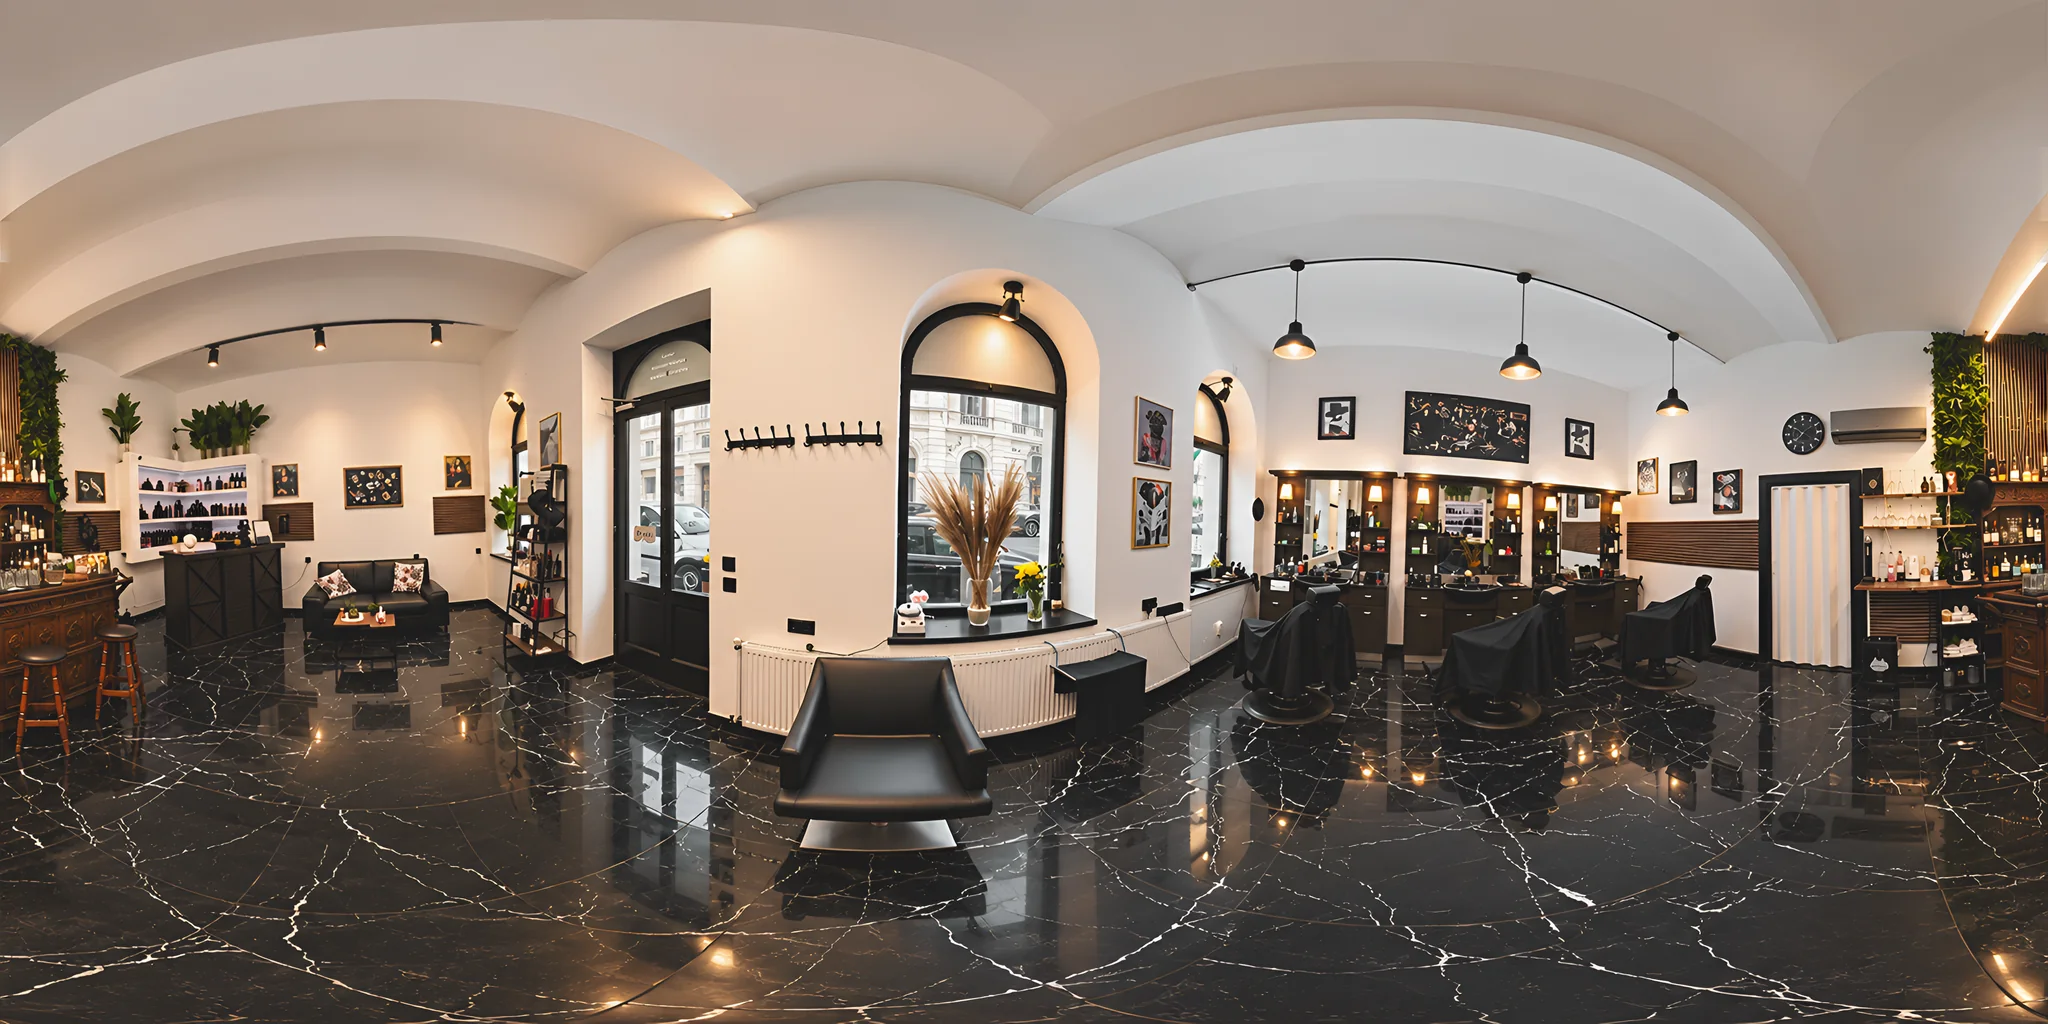
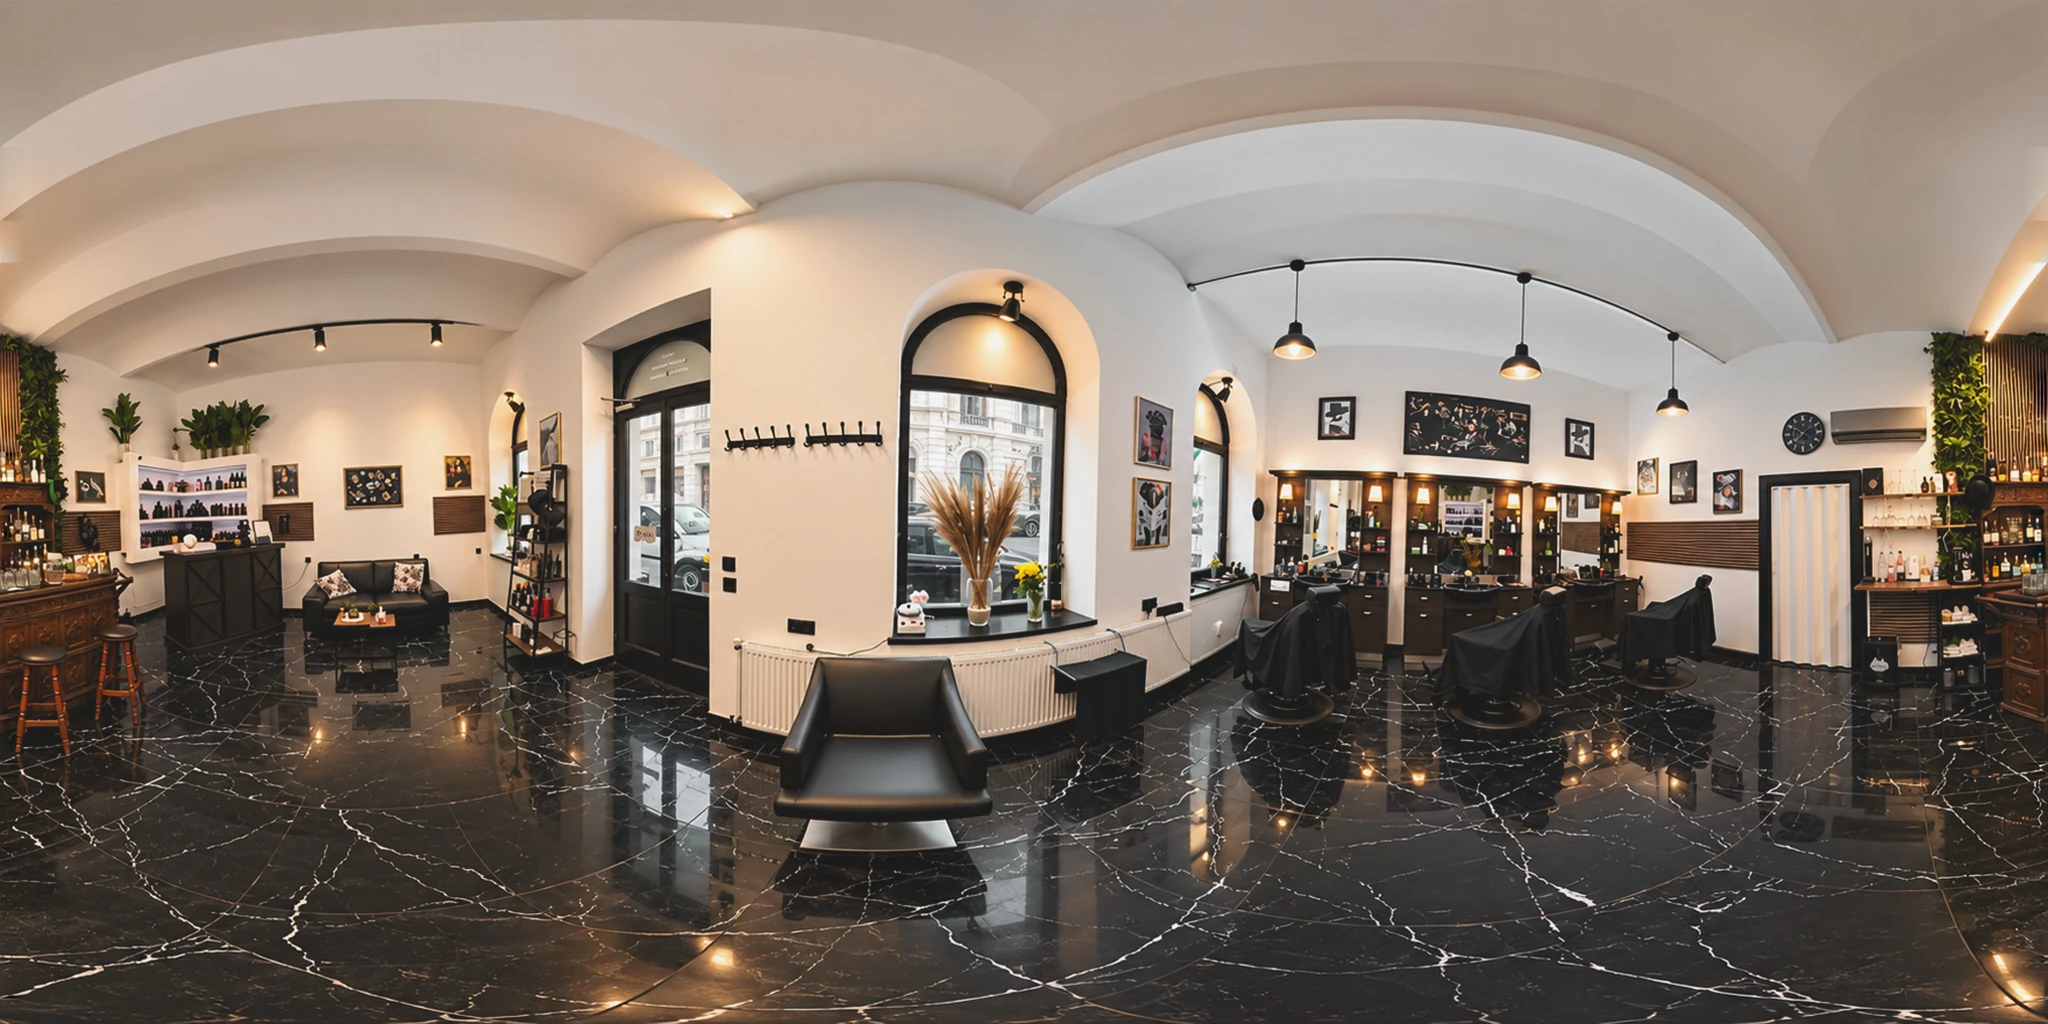
Shop photo stays a real photo: no AI sharpening
The Real-ESRGAN version looked painted. The shop photo is now only enlarged
to twice its size with Lanczos and sharpened very gently, so it keeps the
look of a real photo (tools/panorama.py, no model needed any more). Phones
get the original size. Version 0.3.7.

Claude-Session: https://claude.ai/code/session_014RsE5kPJajU8rKPppCmMFa

diff --git a/theme/jos-barbershop/assets/js/scene.js b/theme/jos-barbershop/assets/js/scene.js
@@ -57,8 +57,9 @@ const FRAME = {
 const EYE_HEIGHT = (FRAME.bottom + FRAME.top) / 2;
 const INSIDE = FACADE_ARCH.reveal + 1.4;          // how far behind the wall face the camera stops
 const PANORAMA_RADIUS = 8;
-// 360 photo of the shop (lokal-360.webp, 2:1, sharpened to twice the size of the original). Coming in through the door the camera looks straight into the
-// shop, at this part of the photo width (0 = left edge): the chairs and mirrors, with the entrance behind.
+// 360 photo of the shop (lokal-360.webp, 2:1, the real photo enlarged to twice its size). Coming in through
+// the door the camera looks straight into the shop, at this part of the photo width (0 = left edge):
+// the chairs and mirrors, with the entrance behind.
 const PANORAMA_VIEW = 0.82;
 const PANORAMA_BRIGHTNESS = 0.8;   // below 1: the shop never blooms and stays calm behind the text
 const PANORAMA_FOV = 70;         // wider view inside the shop: the photo is stretched less

diff --git a/theme/jos-barbershop/assets/scss/style.scss b/theme/jos-barbershop/assets/scss/style.scss
@@ -3,7 +3,7 @@ Theme Name: Jo's Barbershop
 Author: iks.haus
 Author URI: https://iks.haus
 Description: Custom theme for Jo's Barbershop, Wien 1060. The turning shop sign on the facade in three.js, the pages behind the arches.
-Version: 0.3.6
+Version: 0.3.7
 Requires at least: 6.5
 Requires PHP: 8.0
 License: Proprietary

diff --git a/theme/jos-barbershop/style.css b/theme/jos-barbershop/style.css
@@ -3,7 +3,7 @@ Theme Name: Jo's Barbershop
 Author: iks.haus
 Author URI: https://iks.haus
 Description: Custom theme for Jo's Barbershop, Wien 1060. The turning shop sign on the facade in three.js, the pages behind the arches.
-Version: 0.3.6
+Version: 0.3.7
 Requires at least: 6.5
 Requires PHP: 8.0
 License: Proprietary

diff --git a/tools/panorama.py b/tools/panorama.py
@@ -1,11 +1,11 @@
 """
-360 photo of the shop for the theme: sharpened to twice its size with Real-ESRGAN, the place where the
-left and right edge of the photo meet is smoothed, then written as WebP for computers (4096 px wide)
-and for phones (2048 px wide).
+360 photo of the shop for the theme. The photo stays a real photo: it is only enlarged to twice its size
+with Lanczos and sharpened very gently (no AI, which made it look painted), the place where the left and
+right edge of the photo meet is smoothed, then it is written as WebP for computers (4096 px wide) and
+for phones (2048 px wide).
 
-    pip install spandrel pillow numpy
-    curl -L -o RealESRGAN_x2plus.pth https://github.com/xinntao/Real-ESRGAN/releases/download/v0.2.1/RealESRGAN_x2plus.pth
-    python3 tools/panorama.py images/google-maps-28.webp RealESRGAN_x2plus.pth
+    pip install pillow numpy
+    python3 tools/panorama.py images/google-maps-28.webp
 
 Output: theme/jos-barbershop/assets/images/lokal-360.webp and lokal-360-mobile.webp
 """
@@ -13,58 +13,28 @@ import sys
 from pathlib import Path
 
 import numpy as np
-import spandrel
-import torch
-from PIL import Image
+from PIL import Image, ImageFilter
 
 ROOT = Path(__file__).resolve().parent.parent
 OUT = ROOT / 'theme/jos-barbershop/assets/images'
-PAD = 32          # px taken from the other side of the photo, so the tiles see the photo going round
-TILE = 256
-OVERLAP = 24
-SEAM = 24         # px on each side over which the step where the edges meet is smoothed
+SEAM = 24                                        # px on each side over which the step at the edges is smoothed
+SHARPEN = ImageFilter.UnsharpMask(radius=1.4, percent=35, threshold=2)
 
 
-def upscale(src, model):
-    scale = model.scale
-    height, width, _ = src.shape
-    img = np.concatenate([src[:, -PAD:], src, src[:, :PAD]], axis=1)
-    img = np.pad(img, ((PAD, PAD), (0, 0), (0, 0)), mode='reflect')
-    h, w, _ = img.shape
-    out = np.zeros((h * scale, w * scale, 3), np.float32)
-    weight = np.zeros((h * scale, w * scale, 1), np.float32)
-    feather = OVERLAP * scale
-    for y in range(0, h - OVERLAP, TILE - 2 * OVERLAP):
-        for x in range(0, w - OVERLAP, TILE - 2 * OVERLAP):
-            y1, x1 = min(y + TILE, h), min(x + TILE, w)
-            tile = torch.from_numpy(img[y:y1, x:x1].transpose(2, 0, 1).copy()).unsqueeze(0)
-            with torch.no_grad():
-                result = model(tile).squeeze(0).clamp(0, 1).numpy().transpose(1, 2, 0)
-            th, tw = result.shape[:2]
-            wy = np.minimum(np.arange(th) + 1, np.arange(th)[::-1] + 1).clip(max=feather) / feather
-            wx = np.minimum(np.arange(tw) + 1, np.arange(tw)[::-1] + 1).clip(max=feather) / feather
-            tile_weight = (wy[:, None] * wx[None, :])[..., None].astype(np.float32)
-            out[y * scale:y1 * scale, x * scale:x1 * scale] += result * tile_weight
-            weight[y * scale:y1 * scale, x * scale:x1 * scale] += tile_weight
-    out /= np.maximum(weight, 1e-6)
-    return out[PAD * scale:(PAD + height) * scale, PAD * scale:(PAD + width) * scale]
-
-
-def smooth_seam(img):
+def smooth_seam(image):
+    img = np.asarray(image).astype(np.float32)
     step = (img[:, 0] - img[:, -1]) / 2
     for i in range(SEAM):
         share = 1 - i / SEAM
         img[:, i] -= step * share
         img[:, -1 - i] += step * share
-    return img
+    return Image.fromarray(np.clip(img, 0, 255).astype(np.uint8))
 
 
 if __name__ == '__main__':
-    torch.set_num_threads(4)
-    model = spandrel.ModelLoader().load_from_file(sys.argv[2]).eval()
-    photo = np.asarray(Image.open(sys.argv[1]).convert('RGB')).astype(np.float32) / 255
-    big = smooth_seam(upscale(photo, model) * 255)
-    image = Image.fromarray(np.clip(big, 0, 255).astype(np.uint8))
-    image.save(OUT / 'lokal-360.webp', 'WEBP', quality=82, method=6)
-    image.resize((image.width // 2, image.height // 2), Image.LANCZOS).save(OUT / 'lokal-360-mobile.webp', 'WEBP', quality=84, method=6)
-    print(image.size, 'written to', OUT)
+    photo = Image.open(sys.argv[1]).convert('RGB')
+    width, height = photo.size
+    big = photo.resize((width * 2, height * 2), Image.LANCZOS).filter(SHARPEN)
+    smooth_seam(big).save(OUT / 'lokal-360.webp', 'WEBP', quality=86, method=6)
+    smooth_seam(photo).save(OUT / 'lokal-360-mobile.webp', 'WEBP', quality=90, method=6)
+    print(big.size, 'and', photo.size, 'written to', OUT)

diff --git a/theme/jos-barbershop/functions.php b/theme/jos-barbershop/functions.php
@@ -9,7 +9,7 @@ if ( ! defined( 'ABSPATH' ) ) {
 	exit;
 }
 
-define( 'JOS_VERSION', '0.3.6' );
+define( 'JOS_VERSION', '0.3.7' );
 
 /**
  * Theme supports.

diff --git a/README.md b/README.md
@@ -74,8 +74,8 @@ Stranica počinje 3D scenom s okruglim znakom trgovine, kao na fasadi (`images/f
   sljedećeg luka i uđe u njega.
 - Redom: Leistungen & Preise (izlog desno), Über uns (vrata), Galerie, Kontakt (izlog lijevo).
 - Kroz vrata kamera ulazi u lokal: 360 fotografija lokala oko kamere (`images/google-maps-28.webp`, 2048 x 1024).
-  Za web je izoštrena na dvostruku veličinu (Real-ESRGAN, `tools/panorama.py`): `lokal-360.webp` (4096 px) za
-  računala, `lokal-360-mobile.webp` (2048 px) za mobitele. Pogled prvo ide ravno u lokal, prema stolicama
+  Ostaje prava fotografija: za web je samo povećana na dvostruku veličinu i vrlo blago izoštrena, bez AI-ja
+  (`tools/panorama.py`): `lokal-360.webp` (4096 px) za računala, `lokal-360-mobile.webp` (2048 px) za mobitele. Pogled prvo ide ravno u lokal, prema stolicama
   i ogledalima, s ulazom iza leđa, i sa scrollom se okrene jednom u krug. Stranica Über uns dolazi preko lokala
   na tamnom staklu. Unutra se kut gledanja proširi s 30 na 70 stupnjeva.
 - Bez animacija (prefers-reduced-motion) kamera stoji na prvom kadru, a stranice slijede jedna za drugom.
@@ -101,6 +101,6 @@ Vlastita WordPress tema (PHP, SCSS, čisti JavaScript, GSAP, three.js), sve loka
 
 Dijale (zadane vrijednosti dok ih ne promijenimo): VARIJACIJA 6, ANIMACIJA 9 (3D hero povezan sa scrollom), GUSTOĆA 4.
 
-Status 0.3.6: znak na fasadi koja se iscrta pri učitavanju, scroll kroz lukove do četiri stranice, lokal iza vrata
+Status 0.3.7: znak na fasadi koja se iscrta pri učitavanju, scroll kroz lukove do četiri stranice, lokal iza vrata
 s 360 fotografijom. Slijede sadržaj stranica, DE i EN verzija, Impressum i Datenschutz.
 
